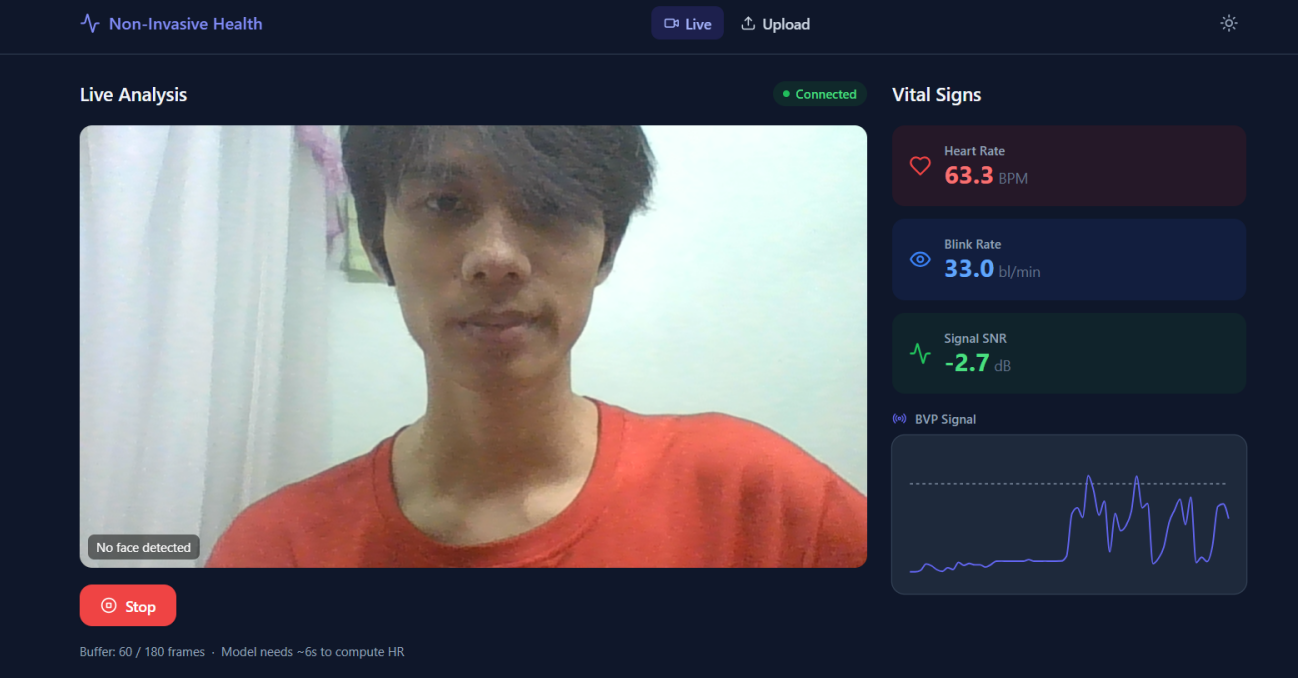
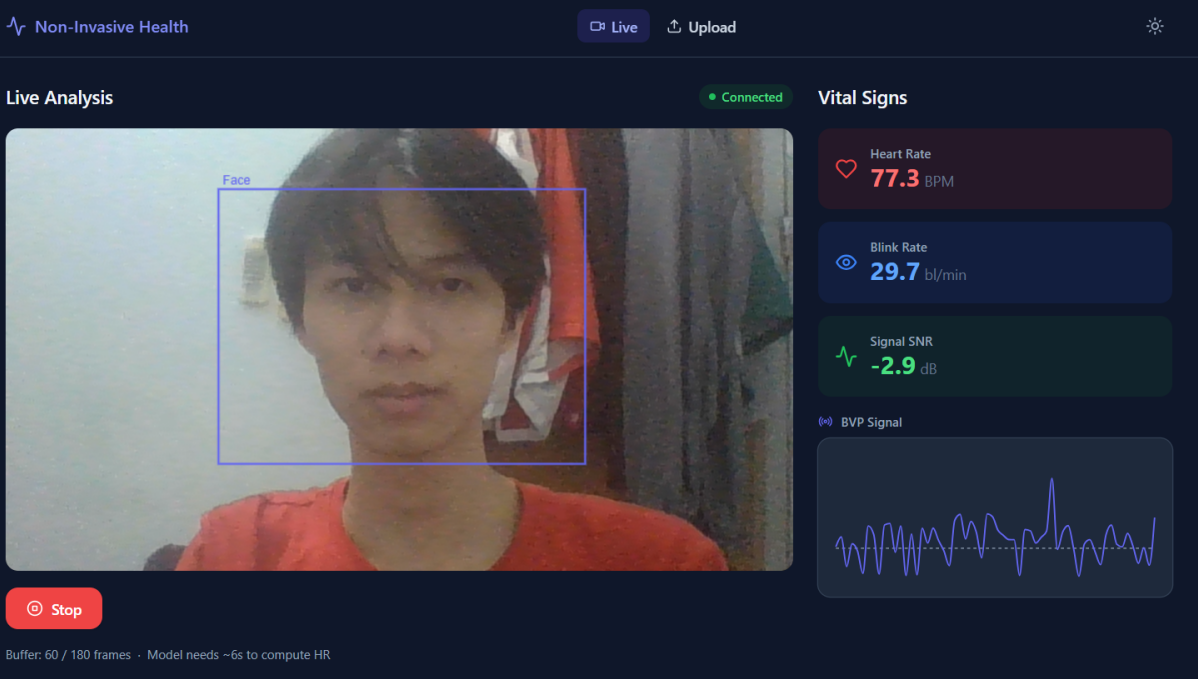
chore: cập nhật gitignore, docs, và demo figure
- .gitignore: thêm rPPG/weights/*.onnx.data (external data file của ONNX lớn)
- doc/PLAN.md: cập nhật kế hoạch dự án
- doc/chatbot_plan.md, doc/details.md: thêm tài liệu chi tiết frontend/backend
- figures/demo.png: cập nhật ảnh demo

diff --git a/doc/chatbot_plan.md b/doc/chatbot_plan.md
@@ -1,0 +1,202 @@
+# Chatbot Plan — Ứng dụng RAG cho sản phẩm Non-Invasive
+
+## 1. Mục tiêu
+
+Xây một chatbot thông minh cho sản phẩm RPPG/GPU, dùng RAG (Retrieval-Augmented Generation) để:
+- Hỗ trợ người dùng cuối hiểu kết quả đo và cách cải thiện chất lượng đo.
+- Đưa ra gợi ý hướng dẫn người dùng nên làm gì dựa trên các chỉ số sức khỏe thu được (ví dụ: nhịp tim, nhịp thở, chất lượng tín hiệu, HRV).
+- Cung cấp lời khuyên y tế cơ bản, hiểu biết về sức khỏe và cảnh báo khi số liệu có dấu hiệu bất thường.
+- Hỗ trợ developer/QA hiểu kiến trúc, cách chạy backend/frontend, lựa chọn model, và debug.
+- Trả lời câu hỏi chuyên môn về hệ thống, các model rPPG, pipeline xử lý tín hiệu.
+
+## 2. Ý tưởng RAG cho sản phẩm
+
+RAG là giải pháp giúp chatbot không chỉ dựa vào mô hình sinh ngôn ngữ mà còn truy vấn kiến thức thực tế từ tài liệu nội bộ.
+
+### Nguồn dữ liệu cần dùng
+- `README.md`
+- `doc/ARCHITECTURE.md`
+- `doc/PLAN.md`
+- `doc/details.md`
+- Các file code chính trong `backend/app/`, `frontend/src/`, `rPPG/`
+- File config và schema (`backend/app/core/config.py`, `backend/app/schemas/`, `.env.example`)
+- Nội dung comment, docs, và tên model/weights trong `weights/` và `rPPG/`
+
+### Cách hoạt động
+1. Tạo embedding cho từng đoạn văn bản từ các tài liệu và code.
+2. Lưu embeddings vào vector store.
+3. Khi người dùng hỏi, truy vấn vector store để lấy top-k đoạn phù hợp.
+4. Kết hợp đoạn truy xuất được vào prompt để LLM trả lời chính xác, có nguồn dẫn.
+
+## 3. Kiến trúc chi tiết
+
+### 3.1. Data ingestion
+
+- Quét thư mục `doc/` và các file tài liệu quan trọng.
+- Quét các file `*.py`, `*.md`, `*.ts`, `*.tsx` trong `backend/` và `frontend/`.
+- Tách văn bản thành các chunk phù hợp (200-400 token) với ngữ cảnh rõ ràng.
+
+### 3.2. Vector store
+
+- Dùng `FAISS` cho local deployment nhẹ.
+- Nếu cần scale cloud: `Milvus` hoặc `Pinecone`.
+- Lưu metadata: file path, đoạn văn bản, block id.
+
+### 3.3. Embeddings
+
+- Nếu dùng OpenAI: `text-embedding-3-large`
+- Nếu dùng local: `sentence-transformers/all-MiniLM-L6-v2` hoặc `intfloat/e5-large`
+
+### 3.4. LLM
+
+- Triển khai với một trong các lựa chọn:
+  - OpenAI / Azure OpenAI
+  - Local LLM như `gpt4all`, `llama.cpp`, `mistral` nếu cần offline
+- Prompt template chứa:
+  - Mục tiêu: trả lời chính xác, không bịa đặt
+  - Nguồn dữ liệu trích xuất
+  - Hạn chế: nếu không tìm thấy thông tin thì trả lời "không rõ" hoặc "tham khảo tài liệu nội bộ"
+
+### 3.5. Backend endpoint
+
+- Thêm endpoint mới: `POST /chat` hoặc `POST /rag/chat`
+- Dữ liệu input:
+  - `question`
+  - `session_id` (nếu muốn giữ conversation state)
+  - `history` (các câu hỏi trước đó)
+- Response:
+  - `answer`
+  - `sources`: list tài liệu/trích dẫn
+  - `retrieved_chunks`
+  - `confidence` (nếu cần)
+
+### 3.6. Frontend UI
+
+- Thêm component chatbot:
+  - Khung chat đơn giản tại `src/components/`
+  - Trang hoặc modal chat ở `src/pages/`
+- UI hiển thị:
+  - Câu hỏi của user
+  - Trả lời của chatbot
+  - Nguồn tham khảo (ví dụ: `ARCHITECTURE.md`, `PLAN.md`, `backend/app/services/rppg_engine.py`)
+
+## 4. Kịch bản sử dụng
+
+### 4.1. Người dùng cuối
+- "Chatbot ơi, kết quả HR 83 có chính xác không?"
+- "Nhịp tim 83 bpm có bình thường không?"
+- "Tôi nên làm gì nếu kết quả nhịp tim cao hoặc dao động lớn?"
+- "Tín hiệu yếu, tôi cần điều chỉnh ánh sáng hoặc vị trí thế nào?"
+- "Có lời khuyên sức khỏe nào khi HRV thấp hoặc nhịp thở không ổn định?"
+
+### 4.2. Developer/QA
+- "Backend đang dùng model nào?"
+- "Pipeline xử lý video upload hoạt động ra sao?"
+- "Làm sao để chuyển sang FactorizePhys?"
+- "Cần thay Haar Cascade bằng detector nào?"
+
+### 4.3. Product manager
+- "Sản phẩm này hỗ trợ model nào?"
+- "Có kế hoạch thêm nhịp thở không?"
+- "Dữ liệu nào cần lưu vào history?"
+
+## 5. Chi tiết triển khai RAG vào sản phẩm
+
+### 5.1. Giai đoạn 1: Proof of concept
+
+- Tạo thư mục `backend/app/chatbot/` hoặc `backend/app/api/routes/chat.py`
+- Cài package cần thiết:
+  - `langchain`
+  - `faiss-cpu`
+  - `sentence-transformers`
+  - `openai` (hoặc `llama-cpp-python` nếu local)
+- Viết script dựng vector database từ `doc/` và `backend/`.
+- Triển khai endpoint `POST /chat` trả về answer + source.
+- Tạo frontend đơn giản để gửi câu hỏi và nhận câu trả lời.
+
+### 5.2. Giai đoạn 2: Tối ưu retrieval
+
+- Xây `DocumentLoader` cho:
+  - Markdown docs
+  - Python/TypeScript code
+  - JSON config nếu cần
+- Dùng `recursive character splitter` để tách code/document theo function/class.
+- Tối ưu top-k retrieval, dùng `max_token_limit` để tránh quá dài.
+- Thêm kỹ thuật `re-ranking` nếu cần: lấy 20 chunk, sau đó chọn 5 chunk tốt nhất.
+
+### 5.3. Giai đoạn 3: Conversation memory
+
+- Lưu lịch sử ngắn hạn trong session:
+  - `question` + `answer`
+  - `retrieved_sources`
+- Khi người dùng hỏi tiếp tục, ghép `history` vào prompt để chatbot giữ ngữ cảnh.
+
+### 5.4. Giai đoạn 4: Thực tế sản phẩm
+
+- Tích hợp vào app frontend hiện tại như một feature hỗ trợ.
+- Thêm nút "Ask bot" khi user ở trang Upload hoặc Home.
+- Cần hạn chế scope: focus vào câu hỏi liên quan code / docs / product, tránh trả lời y tế tuyệt đối.
+
+## 6. Cấu trúc prompt mẫu
+
+```text
+You are a health-aware assistant for a remote PPG health analysis application.
+Use only referenced internal documentation and code snippets.
+Provide practical suggestions based on the reported vital sign metrics.
+If the answer involves health advice, keep it general and add a disclaimer that it is for reference only, not a medical diagnosis.
+If the answer is not available from the provided sources, say "Không có thông tin trong tài liệu nội bộ".
+
+Question:
+{question}
+
+Relevant documents:
+{retrieved_chunks}
+
+Answer:
+```
+
+## 7. Các thành phần cần triển khai cụ thể
+
+### Backend
+- `backend/app/chatbot/index.py`
+- `backend/app/chatbot/loader.py`
+- `backend/app/chatbot/retriever.py`
+- `backend/app/chatbot/engine.py`
+- `backend/app/api/routes/chat.py`
+
+### Frontend
+- `frontend/src/components/ChatBot.tsx`
+- `frontend/src/pages/Chat.tsx` hoặc `frontend/src/components/ChatModal.tsx`
+- `frontend/src/lib/chatApi.ts`
+- `frontend/src/types/chat.ts`
+
+### Devops / Tooling
+- `scripts/build_embeddings.py`
+- `scripts/update_chat_vectorstore.py`
+- `.env.example` thêm biến:
+  - `OPENAI_API_KEY`
+  - `CHATBOT_MODEL`
+  - `VECTORSTORE_PATH`
+
+## 8. Lộ trình triển khai đề xuất
+
+1. Tạo endpoint `POST /chat` và cấu trúc trả lời cơ bản.
+2. Build vector store từ `doc/` và `backend/`.
+3. Thử nghiệm với vài câu hỏi kỹ thuật.
+4. Làm frontend chat nhỏ để demo.
+5. Thêm trace source và kiểm soát hallucinaton.
+6. Mở rộng sang dữ liệu `history` và `logs` nếu cần.
+
+## 9. Lưu ý quan trọng
+
+- Chatbot không phải là chuyên gia y tế. Khi trả lời về sức khỏe, cần thêm cảnh báo "Thông tin mang tính chất tham khảo".
+- Đối với câu hỏi sức khỏe, chatbot nên cung cấp: tình trạng chung, lời khuyên chăm sóc tại nhà (nghỉ ngơi, uống nước, kiểm tra ánh sáng, v.v.), đồng thời khuyến nghị gặp bác sĩ nếu có dấu hiệu nghiêm trọng.
+- Ưu tiên trả lời chính xác từ nguồn nội bộ; không tự tạo thông tin.
+- Cập nhật lại vector store khi tài liệu/code thay đổi.
+- Nếu dùng OpenAI, cần bảo mật API key và không đưa dữ liệu nhạy cảm vào prompt.
+
+---
+
+## 10. Tóm tắt
+
+Ứng dụng RAG sẽ biến `Non-Invasive` thành một sản phẩm có trợ lý nội bộ, giúp cả user và developer nhanh chóng truy vấn kiến thức về hệ thống, model, pipeline và cách sử dụng. Bắt đầu bằng một chatbot backend đơn giản, sau đó mở rộng dần với memory, source citation và interface trên frontend.

diff --git a/doc/details.md b/doc/details.md
@@ -1,0 +1,116 @@
+# File Details - Frontend & Backend
+
+## Frontend (Ứng dụng React + TypeScript)
+
+### Root Files
+- **index.html** - Điểm vào HTML chính của ứng dụng, chứa root div cho React
+- **main.tsx** - Điểm vào TypeScript, render App component vào DOM
+- **App.tsx** - Component chính của ứng dụng, định tuyến trang và layout chính
+- **index.css** - Style CSS toàn cục cho ứng dụng
+- **vite.config.ts** - Cấu hình build tool Vite (bundler, dev server)
+- **tsconfig.json** - Cấu hình TypeScript cho mã nguồn
+- **tsconfig.node.json** - Cấu hình TypeScript cho các file config (Vite, PostCSS)
+- **postcss.config.js** - Cấu hình PostCSS (xử lý CSS, tương thích với Tailwind)
+- **tailwind.config.ts** - Cấu hình Tailwind CSS (framework CSS utility-first)
+- **package.json** - Quản lý dependencies và scripts (npm packages, build scripts)
+
+### Components (`src/components/`)
+Chứa các React components tái sử dụng:
+- **Header.tsx** - Component header/navbar của ứng dụng
+- **VitalSignCard.tsx** - Card hiển thị chỉ số sức khỏe (nhịp tim, huyết áp, v.v.)
+- **BVPChart.tsx** - Biểu đồ hiển thị dữ liệu máu (Blood Volume Pulse)
+- **FaceOverlay.tsx** - Overlay để vẽ lên khuôn mặt (landmarks, detection)
+
+### Pages (`src/pages/`)
+Chứa các trang chính:
+- **Home.tsx** - Trang chủ, hiển thị kết quả phân tích
+- **Upload.tsx** - Trang upload video/webcam để phân tích
+
+### Store (`src/store/`)
+Quản lý state toàn cục:
+- **vitalsStore.ts** - Store chứa dữ liệu chỉ số sức khỏe (nhịp tim, huyết áp, etc.)
+
+### Hooks (`src/hooks/`)
+Custom React hooks:
+- **useWebSocket.ts** - Hook kết nối WebSocket với backend để nhận dữ liệu real-time
+- **useWebcam.ts** - Hook quản lý webcam, capture video
+
+### Types (`src/types/`)
+Định nghĩa TypeScript types:
+- **vitals.ts** - Types/interfaces cho dữ liệu chỉ số sức khỏe
+
+### Utils (`src/lib/`)
+Hàm utility và helper:
+- **api.ts** - Hàm API client, gọi backend endpoints
+- **utils.ts** - Hàm utility chung (format dữ liệu, tính toán, v.v.)
+
+### Config Files
+- **.env** - Biến môi trường (API_URL, ports, etc.)
+- **public/** - Folder chứa static files (images, favicon, v.v.)
+
+---
+
+## Backend (API FastAPI + Python)
+
+### Root Files
+- **main.py** - Điểm vào ứng dụng FastAPI
+- **.env** - Biến môi trường (DB config, model paths, etc.)
+
+### App (`app/`)
+Thư mục chính chứa ứng dụng:
+- **__init__.py** - Khởi tạo package
+- **main.py** - Tạo FastAPI app instance, mount routers, cấu hình CORS
+
+### Core (`app/core/`)
+Cấu hình và thiết lập core:
+- **config.py** - Cấu hình ứng dụng (environment, model paths, thresholds)
+- **lifespan.py** - Quản lý vòng đời ứng dụng (startup, shutdown events)
+
+### Schemas (`app/schemas/`)
+Định nghĩa data models (Pydantic):
+- **vitals.ts** - Models cho request/response data (VitalsResponse, ProcessingResult)
+
+### Services (`app/services/`)
+Logic xử lý chính:
+- **rppg_engine.py** - Engine chính xử lý rPPG (remote Photoplethysmography)
+- **face_detector.py** - Detect khuôn mặt trong video
+- **blink_detector.py** - Detect chuyển động mắt/blink
+- **preprocessor.py** - Tiền xử lý video (resize, normalize)
+- **signal_processor.py** - Xử lý tín hiệu (filtering, peak detection)
+
+### API (`app/api/`)
+Endpoints API:
+- **router.py** - Tổng hợp tất cả routers
+
+#### Routes (`app/api/routes/`)
+- **health.py** - Health check endpoint (kiểm tra API hoạt động)
+- **video.py** - Endpoints xử lý video (upload, process)
+
+#### WebSocket (`app/api/websocket/`)
+- **stream.py** - WebSocket handler cho real-time streaming (gửi dữ liệu live đến frontend)
+
+### Tests (`tests/`)
+- **test_api.py** - Unit tests cho API endpoints
+
+### Weights (`weights/`)
+- **model_config.json** - Cấu hình model
+- **PURE_DeepPhys.onnx** - Model ONNX (inference, nhẹ hơn PyTorch)
+- **PURE_DeepPhys_meta.json** - Metadata model (version, input/output shapes)
+
+---
+
+## Tóm Tắt Flow
+
+### Upload Video Flow:
+1. User tải video lên từ **Upload.tsx** (Frontend)
+2. Gửi file đến **video.py** endpoint via **api.ts**
+3. Backend xử lý: **preprocessor.py** → **face_detector.py** → **rppg_engine.py** → **signal_processor.py**
+4. Kết quả được gửi qua WebSocket (**stream.py**)
+5. Frontend nhận dữ liệu via **useWebSocket.ts** hook, cập nhật store
+6. **Home.tsx** hiển thị kết quả từ store (BVPChart, VitalSignCard)
+
+### Real-time Webcam Flow:
+1. **useWebcam.ts** capture frames từ webcam
+2. Gửi frames đến backend WebSocket
+3. Backend xử lý real-time, gửi kết quả trở lại via **stream.py**
+4. Frontend hiển thị kết quả real-time trong **Home.tsx**

diff --git a/doc/PLAN.md b/doc/PLAN.md
@@ -17,20 +17,8 @@
 
 ## 1. Model & Inference
 
-### 🔴 Đổi model mặc định sang FactorizePhys
-Backend hiện dùng **DeepPhys** (nhanh nhưng kém chính xác).  
-Theo benchmark, **FactorizePhys** cho MAE ~0.04 bpm ở điều kiện bình thường.
-
-```bash
-python export/export_onnx.py \
-  --model FactorizePhys \
-  --weights weights/PURE_FactorizePhys_FSAM_Res.pth \
-  --output  weights/PURE_FactorizePhys.onnx \
-  --img-size 72 --chunk 160 --validate
-```
-
 ### 🔴 Cho phép chọn model trên frontend
-Thêm dropdown chọn model (DeepPhys / FactorizePhys / PhysFormer) — backend load model theo request.
+Thêm dropdown chọn model (DeepPhys / FactorizePhys / PhysFormer/...) — backend load model theo request.
 
 ### 🟡 Bật GPU inference
 Cài `onnxruntime-gpu` và đổi `DEVICE=cuda:0` trong `.env` để tăng tốc inference ~3–5x.
